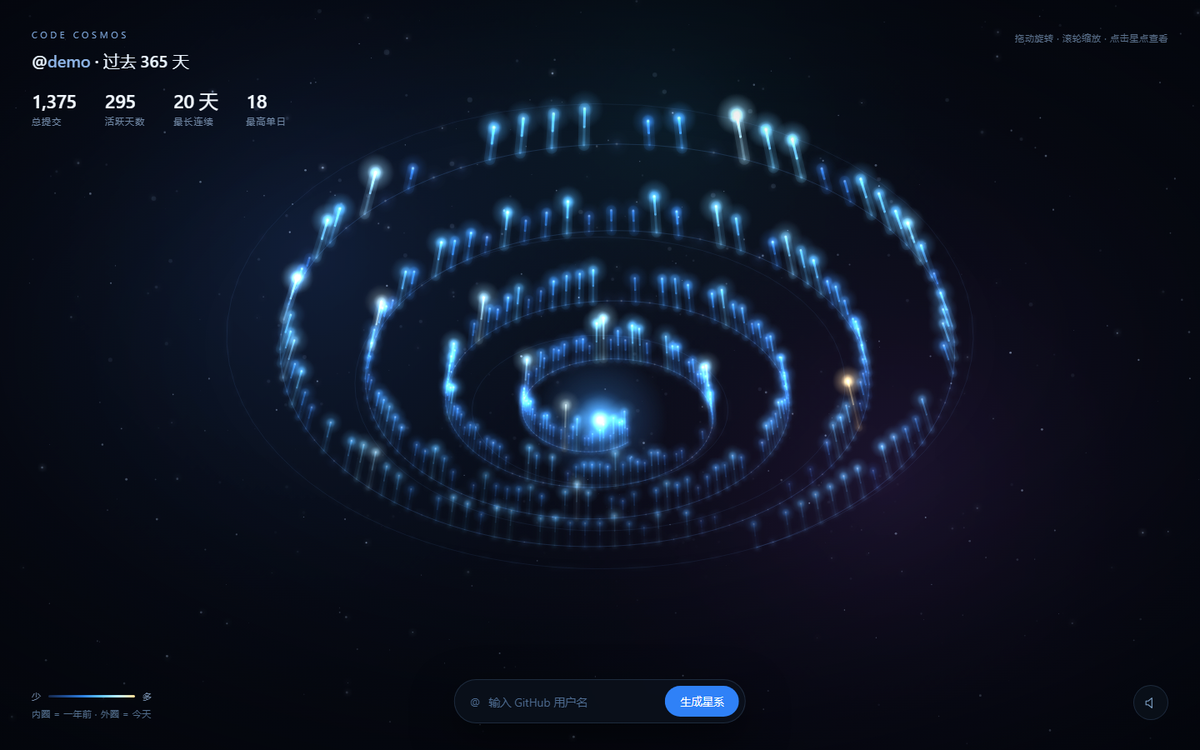
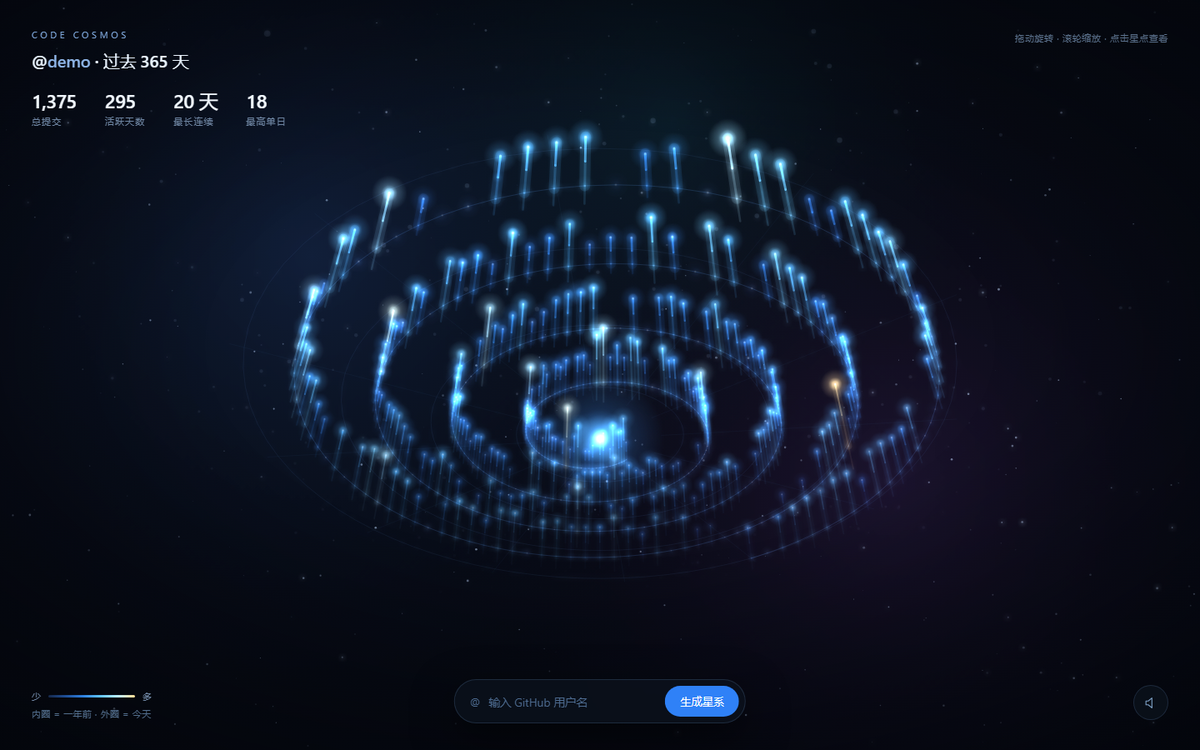
feat: v1.2 立体感与鼠标微视差
- 视角改得更斜（pitch 0.60），光柱从侧面看得到高度
- 地面加同心圆网格与放射线，给高度一个参照
- 每根光柱在地面上有倒影，最强的立体线索
- 指针移动带动镜头微视差（yaw ±0.055rad、画面偏移 ±11px），幅度小不干扰阅读
- 自转与视差均按时间计算，高刷屏一致

Changed region(s): [[0.2158, 0.1227, 0.8017, 0.736]]

diff --git a/index.html b/index.html
@@ -189,7 +189,8 @@
   var fx = null, fxc = null;
   var SPR = [];
 
-  var cam = { yaw: 0.95, pitch: 0.62, dist: 1180, tyaw: 0.95, tpitch: 0.62, tdist: 1180 };
+  var cam = { yaw: 0.95, pitch: 0.60, dist: 1230, tyaw: 0.95, tpitch: 0.60, tdist: 1230 };
+  var ptrX = 0, ptrY = 0, parX = 0, parY = 0;   /* 鼠标视差：目标值 / 平滑值 */
 
   function resize() {
     DPR = Math.min(window.devicePixelRatio || 1, 2);
@@ -361,7 +362,7 @@
         date: d.date, count: d.count, dow: d.dow,
         x: Math.cos(th) * r,
         z: Math.sin(th) * r,
-        h: d.count === 0 ? 0 : 6 + 20 * Math.sqrt(d.count),
+        h: d.count === 0 ? 0 : 6 + 28 * Math.sqrt(d.count),
         t: t,
         bucket: Math.round(t * 9),
         ph: Math.random() * 6.2832,
@@ -546,15 +547,21 @@
     ctx.globalAlpha = 1;
     ctx.drawImage(bgCanvas, 0, 0, W, H);
 
-    var cy = Math.cos(cam.yaw), sy = Math.sin(cam.yaw);
-    var cp = Math.cos(cam.pitch), sp = Math.sin(cam.pitch);
-    var ox = W / 2, oy = H / 2 + H * 0.06, dist = cam.dist;
+    /* 鼠标微视差：镜头随指针轻轻偏一点，幅度很小，不影响正常查看 */
+    var parK = dragging ? 0.3 : 1;
+    parX += (ptrX * parK - parX) * 0.055;
+    parY += (ptrY * parK - parY) * 0.055;
 
-    /* 参考圆环，帮助感知空间 */
+    var vyaw = cam.yaw + parX * 0.055;
+    var vpitch = clamp(cam.pitch + parY * 0.038, 0.10, 1.34);
+    var cy = Math.cos(vyaw), sy = Math.sin(vyaw);
+    var cp = Math.cos(vpitch), sp = Math.sin(vpitch);
+    var ox = W / 2 + parX * 11, oy = H / 2 + H * 0.085 + parY * 8, dist = cam.dist;
+
+    /* 地面网格：给“高度”一个参照，立体感才立得住 */
     ctx.globalCompositeOperation = 'source-over';
-    ctx.strokeStyle = 'rgba(88,140,205,0.10)';
     ctx.lineWidth = 1;
-    var rings = [190, 356, 522];
+    var rings = [130, 260, 390, 522];
     for (var ri = 0; ri < rings.length; ri++) {
       ctx.beginPath();
       var started = false;
@@ -564,8 +571,19 @@
         if (!p) { started = false; continue; }
         if (!started) { ctx.moveTo(p.x, p.y); started = true; } else { ctx.lineTo(p.x, p.y); }
       }
+      ctx.strokeStyle = 'rgba(88,140,205,0.085)';
       ctx.stroke();
     }
+
+    ctx.beginPath();
+    for (var sk = 0; sk < 12; sk++) {
+      var ang = (sk / 12) * Math.PI * 2;
+      var pA = proj(Math.cos(ang) * 96, 0, Math.sin(ang) * 96, cy, sy, cp, sp, ox, oy, dist);
+      var pB = proj(Math.cos(ang) * 540, 0, Math.sin(ang) * 540, cy, sy, cp, sp, ox, oy, dist);
+      if (pA && pB) { ctx.moveTo(pA.x, pA.y); ctx.lineTo(pB.x, pB.y); }
+    }
+    ctx.strokeStyle = 'rgba(88,140,205,0.05)';
+    ctx.stroke();
 
     /* 悬浮尘埃 */
     ctx.globalCompositeOperation = 'lighter';
@@ -614,8 +632,9 @@
       if (!pb) continue;
       var pt = proj(st.x, st.h * grow, st.z, cy, sy, cp, sp, ox, oy, dist);
       if (!pt) continue;
+      var pr = proj(st.x, -st.h * grow * 0.34, st.z, cy, sy, cp, sp, ox, oy, dist);
       st.px = pt.x; st.py = pt.y; st.pz = pb.z; st.vis = true; st.grow = grow;
-      list.push({ st: st, pb: pb, pt: pt, z: pb.z });
+      list.push({ st: st, pb: pb, pt: pt, pr: pr, z: pb.z });
     }
     list.sort(function (A, B) { return B.z - A.z; });
 
@@ -648,6 +667,16 @@
       if (s2.h > 0.5) {
         var mX = (pb2.x + pt2.x) * 0.5, mY = (pb2.y + pt2.y) * 0.5;
         var a0 = 0.10 * gr * fog, a1 = 0.55 * gr * fog;
+
+        /* 平面上的倒影：最强的立体线索 */
+        if (it.pr) {
+          ctx.beginPath();
+          ctx.moveTo(pb2.x, pb2.y);
+          ctx.lineTo(it.pr.x, it.pr.y);
+          ctx.strokeStyle = 'rgba(' + rgb + ',' + (0.13 * gr * fog).toFixed(3) + ')';
+          ctx.lineWidth = lw * 0.7;
+          ctx.stroke();
+        }
 
         /* 外层柔光：整根 */
         ctx.beginPath();
@@ -795,6 +824,13 @@
     cam.tdist = clamp(cam.tdist * (1 + e.deltaY * 0.0011), 700, 3000);
     lastInteract = performance.now();
   }, { passive: false });
+
+  /* 指针位置 → 微视差（全局监听，鼠标划过面板也有效） */
+  window.addEventListener('pointermove', function (e) {
+    ptrX = clamp((e.clientX / W) * 2 - 1, -1, 1);
+    ptrY = clamp((e.clientY / H) * 2 - 1, -1, 1);
+  });
+  document.addEventListener('mouseleave', function () { ptrX = 0; ptrY = 0; });
 
   /* ---------- 载入与切换 ---------- */
   var statusEl = document.getElementById('status');
